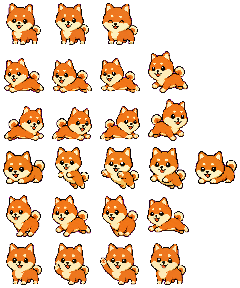
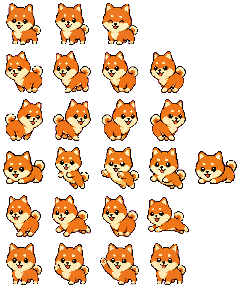
fix(companion): eliminate walk jitter and sliding across 7 sprite pets
- Refactor Scripts/gen-companion-petdex.py with global union bounding box
  to preserve natural vertical elevation and eliminate 7-8px abrupt bouncing.
- Introduce species-adaptive column sampling: dog uses [1,3,5,7] for true
  contact strides, xiaoHei uses [0,3,4,7], gugugaga uses [0,1,4,5], whaledou
  uses [0,2,4,6] with vertical floating centering.
- Maintain forward walk sequence for Row 1 by flipping Row 0 frames
  horizontally, avoiding inverted timeframes.
- Add machine guard in rebuild() ensuring no adjacent duplicate walk frames
  and bounding top jitter <= 3px.
- Fix Scripts/lint.sh to locate DYLD_FRAMEWORK_PATH for sourcekitd.
- Regenerate all 7 CompanionAtlas-*.generated.png asset atlases.

Changed region(s): [[0.0, 0.1562, 0.3792, 0.5], [0.6125, 0.1562, 0.7875, 0.5], [0.4083, 0.1562, 0.5833, 0.5]]

diff --git a/Scripts/gen-companion-petdex.py b/Scripts/gen-companion-petdex.py
@@ -7,6 +7,7 @@ from __future__ import annotations
 
 import sys
 import urllib.request
+from dataclasses import dataclass
 from pathlib import Path
 
 from PIL import Image
@@ -19,18 +20,62 @@ WALK_LEFT_ROW = 1
 WALK_RIGHT_ROW = 2
 PAD = 3
 
+
+@dataclass(frozen=True)
+class PetSpec:
+    name: str
+    url: str
+    frames: list[int] | None = None
+    center_v: bool = False
+
+
 PETS = [
-    ("CompanionAtlas-nezuko.generated.png", "https://assets.petdex.dev/pets/nezukocoder-7d766f7c2597/sprite.webp"),
-    ("CompanionAtlas-ddoZvzo.generated.png", "https://assets.petdex.dev/pets/ddo-zvzo-49f5c2067af6/sprite.webp"),
-    ("CompanionAtlas-whaledou.generated.png", "https://assets.petdex.dev/pets/whaledou-c4cb6b24fb56/sprite.webp"),
-    ("CompanionAtlas-xiaoHei.generated.png", "https://assets.petdex.dev/pets/nightleaf-3ffbd69b2946/sprite.webp"),
-    ("CompanionAtlas-gugugaga.generated.png", "https://assets.petdex.dev/pets/gugugaga-cedf2dac1434/sprite.webp"),
-    ("CompanionAtlas-lillia.generated.png", "https://assets.petdex.dev/pets/snow-plum-lillia-2a5fc9e46017/sprite.webp"),
-    ("CompanionAtlas-dog.generated.png", "https://assets.petdex.dev/pets/aka-shiba-5758e3fbe12c/sprite.webp"),
+    PetSpec(
+        "CompanionAtlas-nezuko.generated.png",
+        "https://assets.petdex.dev/pets/nezukocoder-7d766f7c2597/sprite.webp",
+        frames=[0, 2, 4, 6],
+        center_v=False,
+    ),
+    PetSpec(
+        "CompanionAtlas-ddoZvzo.generated.png",
+        "https://assets.petdex.dev/pets/ddo-zvzo-49f5c2067af6/sprite.webp",
+        frames=[0, 2, 4, 6],
+        center_v=False,
+    ),
+    PetSpec(
+        "CompanionAtlas-whaledou.generated.png",
+        "https://assets.petdex.dev/pets/whaledou-c4cb6b24fb56/sprite.webp",
+        frames=[0, 2, 4, 6],
+        center_v=True,
+    ),
+    PetSpec(
+        "CompanionAtlas-xiaoHei.generated.png",
+        "https://assets.petdex.dev/pets/nightleaf-3ffbd69b2946/sprite.webp",
+        frames=[0, 3, 4, 7],
+        center_v=False,
+    ),
+    PetSpec(
+        "CompanionAtlas-gugugaga.generated.png",
+        "https://assets.petdex.dev/pets/gugugaga-cedf2dac1434/sprite.webp",
+        frames=[0, 1, 4, 5],
+        center_v=False,
+    ),
+    PetSpec(
+        "CompanionAtlas-lillia.generated.png",
+        "https://assets.petdex.dev/pets/snow-plum-lillia-2a5fc9e46017/sprite.webp",
+        frames=[0, 2, 4, 6],
+        center_v=False,
+    ),
+    PetSpec(
+        "CompanionAtlas-dog.generated.png",
+        "https://assets.petdex.dev/pets/aka-shiba-5758e3fbe12c/sprite.webp",
+        frames=[1, 3, 5, 7],
+        center_v=False,
+    ),
 ]
 
 
-def download(url, dest):
+def download(url: str, dest: Path) -> None:
     dest.parent.mkdir(parents=True, exist_ok=True)
     if dest.exists() and dest.stat().st_size > 1000:
         return
@@ -39,7 +84,7 @@ def download(url, dest):
         out.write(response.read())
 
 
-def occupied_cols(sheet, row, fw, fh):
+def occupied_cols(sheet: Image.Image, row: int, fw: int, fh: int) -> list[int]:
     cols = []
     for col in range(sheet.width // fw):
         cell = sheet.crop((col * fw, row * fh, (col + 1) * fw, (row + 1) * fh))
@@ -48,7 +93,13 @@ def occupied_cols(sheet, row, fw, fh):
     return cols
 
 
-def pick_walk_cols(cols):
+def pick_walk_cols(cols: list[int], frames: list[int] | None = None) -> list[int]:
+    if frames is not None:
+        if len(frames) != 4:
+            raise SystemExit("walk frames must contain exactly 4 frames, got %d" % len(frames))
+        if any(i < 0 or i >= len(cols) for i in frames):
+            raise SystemExit("frame index out of range for cols (len=%d): %s" % (len(cols), frames))
+        return [cols[i] for i in frames]
     if len(cols) >= 8:
         return [cols[0], cols[2], cols[4], cols[6]]
     if len(cols) >= 4:
@@ -57,28 +108,33 @@ def pick_walk_cols(cols):
     raise SystemExit("walk row has %d frames; need at least 4" % len(cols))
 
 
-def ground_frames(cells):
+def ground_frames(cells: list[Image.Image], center_v: bool = False) -> list[Image.Image]:
     boxes = [cell.getbbox() for cell in cells]
     if any(box is None for box in boxes):
         raise SystemExit("walk frame is empty")
-    max_w = max(box[2] - box[0] for box in boxes)
-    max_h = max(box[3] - box[1] for box in boxes)
-    scale = min((CELL - 2 * PAD) / max_w, (CELL - 2 * PAD) / max_h)
+    union_left = min(b[0] for b in boxes)
+    union_top = min(b[1] for b in boxes)
+    union_right = max(b[2] for b in boxes)
+    union_bottom = max(b[3] for b in boxes)
+    union_w = union_right - union_left
+    union_h = union_bottom - union_top
+    scale = min((CELL - 2 * PAD) / union_w, (CELL - 2 * PAD) / union_h)
+    target_w = max(1, round(union_w * scale))
+    target_h = max(1, round(union_h * scale))
     ground = CELL - PAD
     frames = []
-    for cell, box in zip(cells, boxes):
-        cropped = cell.crop(box)
-        size = (max(1, round(cropped.width * scale)), max(1, round(cropped.height * scale)))
-        scaled = cropped.resize(size, Image.Resampling.NEAREST)
+    for cell in cells:
+        cropped = cell.crop((union_left, union_top, union_right, union_bottom))
+        scaled = cropped.resize((target_w, target_h), Image.Resampling.NEAREST)
         frame = Image.new("RGBA", (CELL, CELL), (0, 0, 0, 0))
-        px = (CELL - scaled.width) // 2
-        py = max(0, ground - scaled.height)
+        px = (CELL - target_w) // 2
+        py = (CELL - target_h) // 2 if center_v else max(0, ground - target_h)
         frame.paste(scaled, (px, py), scaled)
         frames.append(frame)
     return frames
 
 
-def replace_walk(atlas, frames, row):
+def replace_walk(atlas: Image.Image, frames: list[Image.Image], row: int) -> None:
     empty = Image.new("RGBA", (CELL, CELL), (0, 0, 0, 0))
     for col in range(5):
         atlas.paste(empty, (col * CELL, row * CELL))
@@ -86,32 +142,37 @@ def replace_walk(atlas, frames, row):
         atlas.paste(frame, (col * CELL, row * CELL), frame)
 
 
-def rebuild(name, url):
-    dest = RESOURCES / name
+def rebuild(spec: PetSpec) -> None:
+    dest = RESOURCES / spec.name
     if not dest.exists():
         raise SystemExit("missing atlas %s" % dest)
-    cache = CACHE / (dest.stem + Path(url).suffix)
-    download(url, cache)
+    cache = CACHE / (dest.stem + Path(spec.url).suffix)
+    download(spec.url, cache)
     sheet = Image.open(cache).convert("RGBA")
     fw, fh = sheet.width // 8, sheet.height // 9
     cols = occupied_cols(sheet, 1, fw, fh)
-    picked = pick_walk_cols(cols)
+    picked = pick_walk_cols(cols, spec.frames)
     cells = [sheet.crop((col * fw, 1 * fh, (col + 1) * fw, 2 * fh)) for col in picked]
-    right = ground_frames(cells)
+    right = ground_frames(cells, center_v=spec.center_v)
+    if any(right[i].tobytes() == right[(i + 1) % 4].tobytes() for i in range(4)):
+        raise SystemExit("%s: walk cycle has adjacent identical frames" % spec.name)
     if right[0].tobytes() == right[2].tobytes():
-        raise SystemExit("%s: walk frames 0 and 2 are identical" % name)
+        raise SystemExit("%s: walk frames 0 and 2 are identical" % spec.name)
+    tops = [f.getbbox()[1] for f in right if f.getbbox()]
+    if max(tops) - min(tops) > 3:
+        raise SystemExit("%s: top jitter exceeds 3px (got %dpx)" % (spec.name, max(tops) - min(tops)))
     left = [frame.transpose(Image.FLIP_LEFT_RIGHT) for frame in right]
     atlas = Image.open(dest).convert("RGBA")
     replace_walk(atlas, left, WALK_LEFT_ROW)
     replace_walk(atlas, right, WALK_RIGHT_ROW)
     atlas.save(dest)
-    print("%s: walk cols %s" % (name, picked))
+    print("%s: walk cols %s, center_v=%s" % (spec.name, picked, spec.center_v))
 
 
-def main():
+def main() -> int:
     CACHE.mkdir(parents=True, exist_ok=True)
-    for name, url in PETS:
-        rebuild(name, url)
+    for spec in PETS:
+        rebuild(spec)
     return 0
 
 
